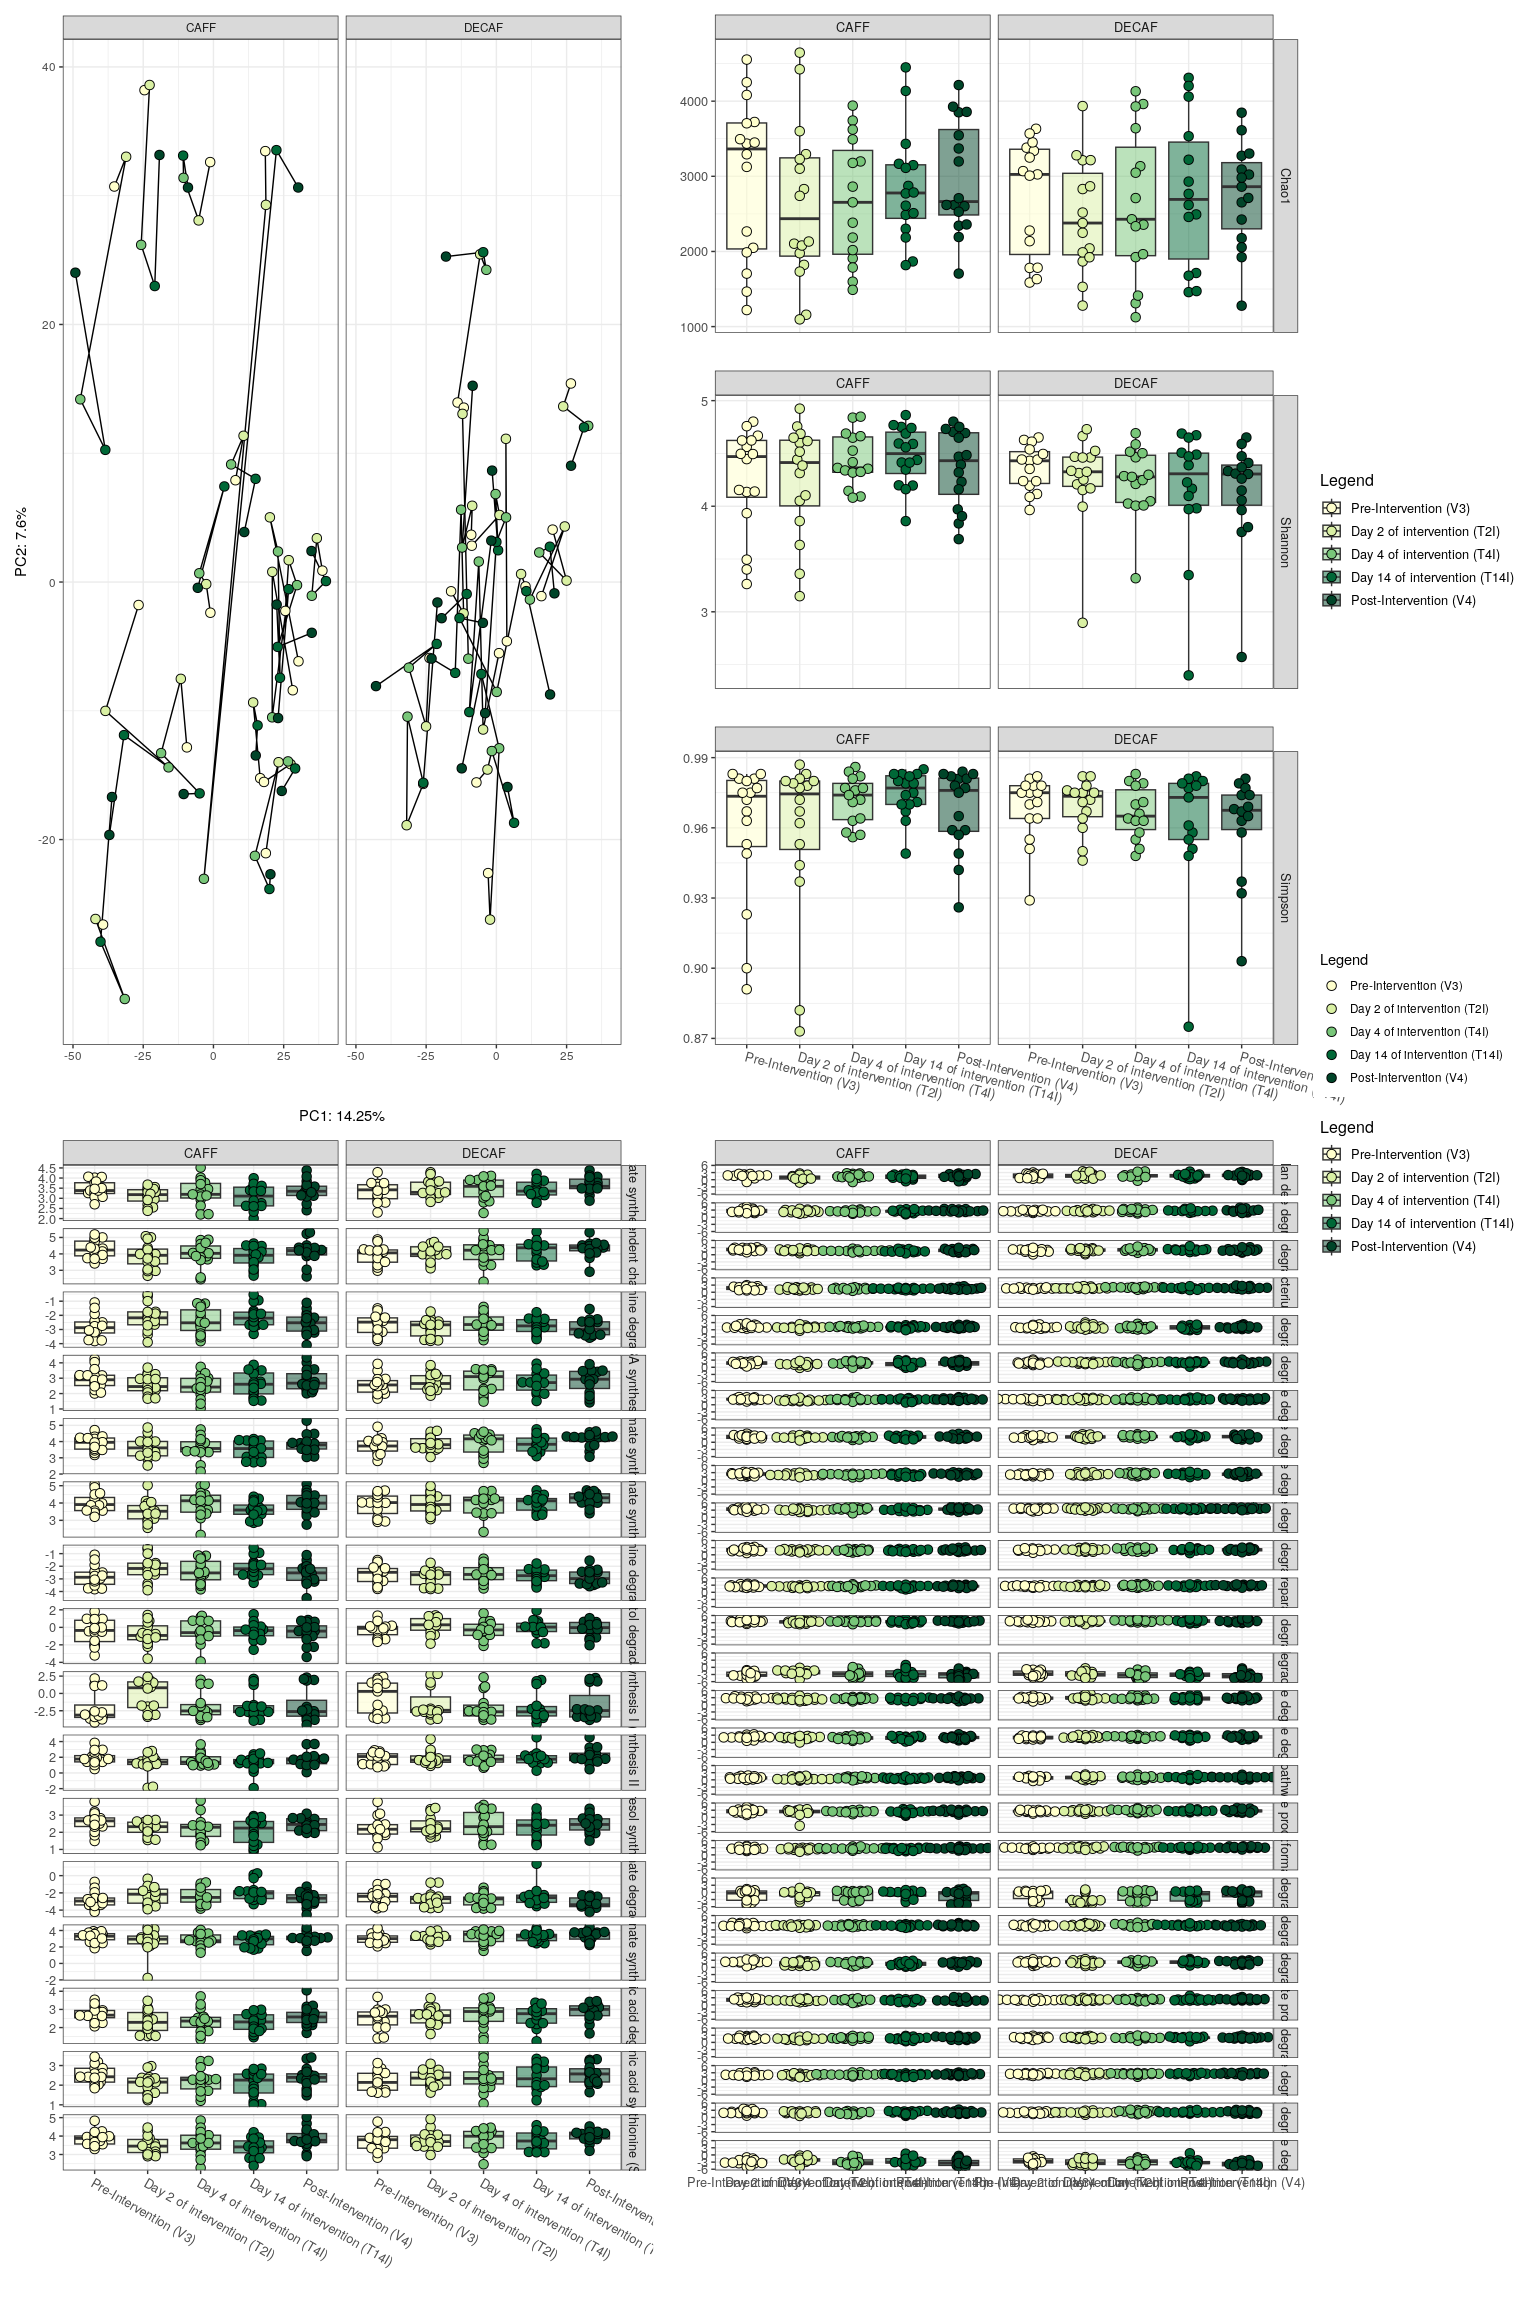
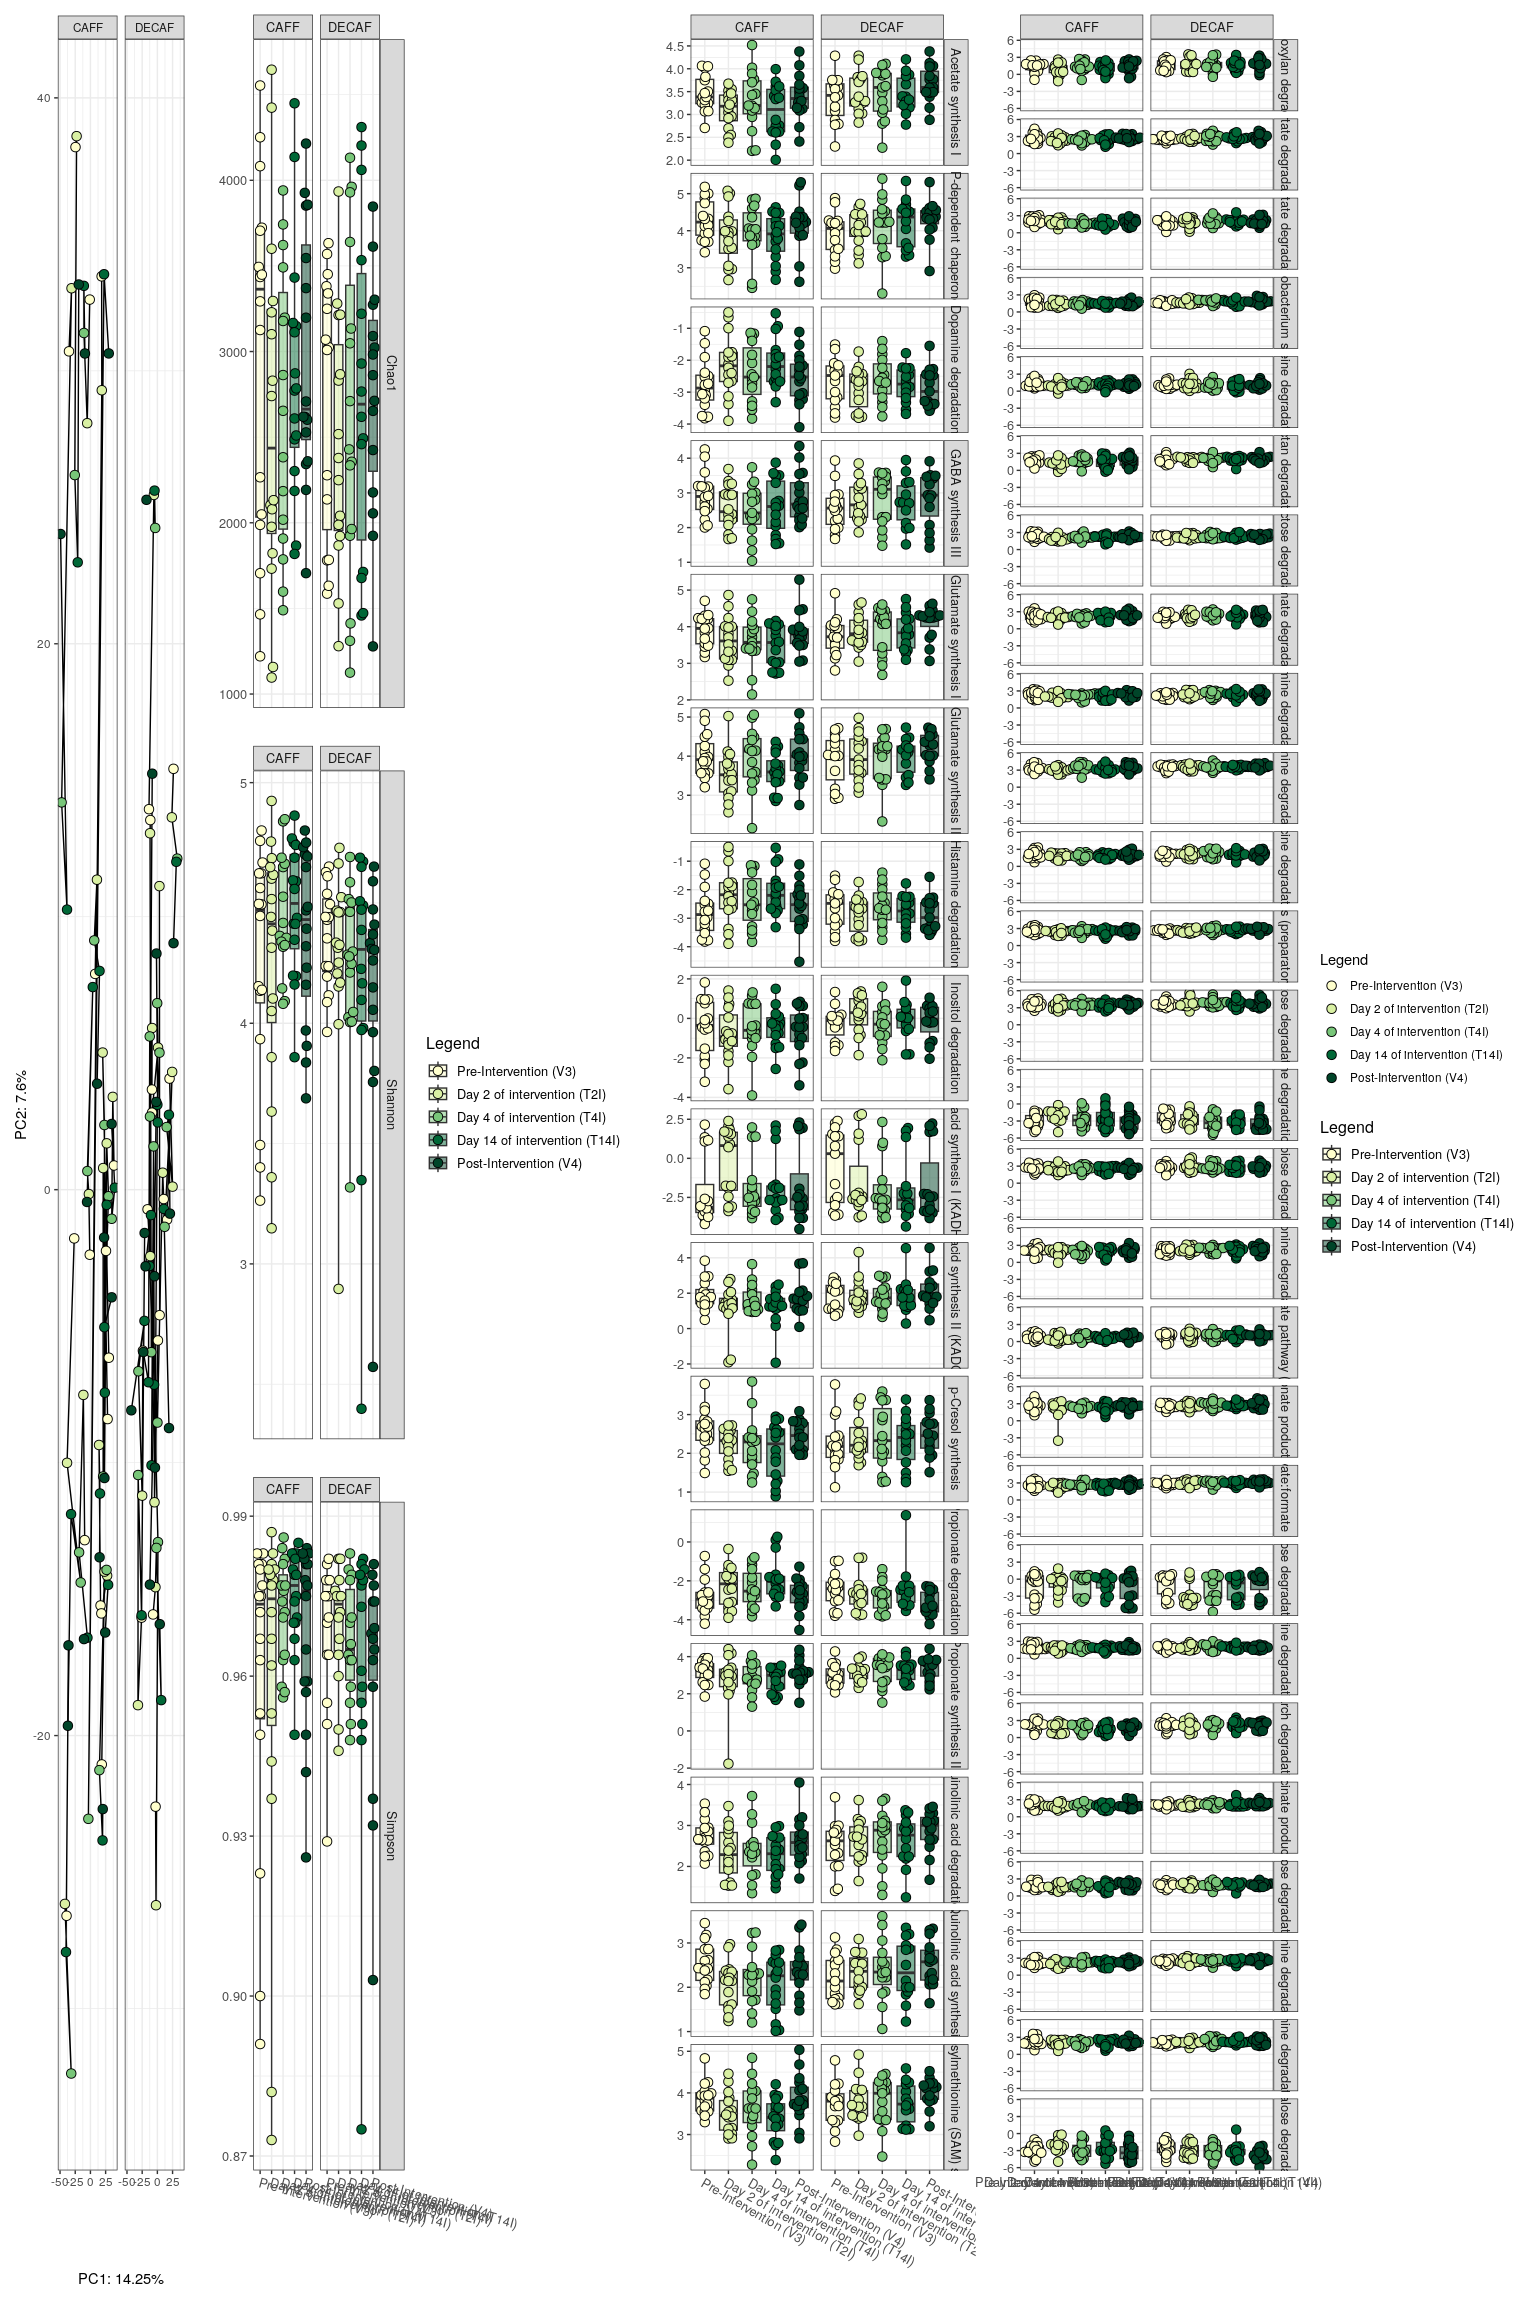
update

diff --git a/README.md b/README.md
@@ -124,7 +124,7 @@ source("scripts/ex_INTERVENTION_acute_recaf_or_decaf.R")
     ## [1] "Adjusting for FDR using Benjamini & Hochberg's procedure."
 
 ``` r
-ex_INTERVENTIONpca + ex_INTERVENTIONalpha + ex_INTERVENTIONDA_GBM + ex_INTERVENTIONDA_GMM +  plot_layout(guides = 'collect')
+ex_INTERVENTIONpca + ex_INTERVENTIONalpha + ex_INTERVENTIONDA_GBM + ex_INTERVENTIONDA_GMM +  plot_layout(guides = 'collect', widths = c(1,1,2,2))
 ```
 
 ![](README_files/figure-gfm/unnamed-chunk-10-1.png)<!-- -->
